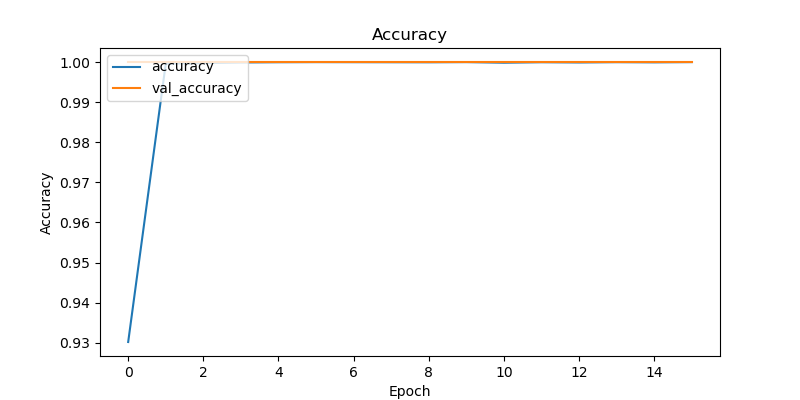
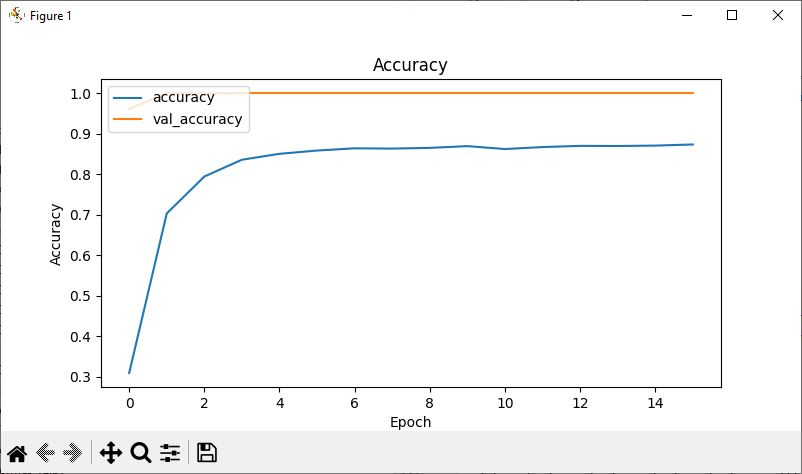
formes.py> améliore les transformations des data en utilisant les random transformation layers

diff --git a/MasterMind/formes.py b/MasterMind/formes.py
@@ -50,7 +50,7 @@ class Figures(object):
         self.forms = ["Rond", "Square", "Triangle", "Star5",
                       "Star4", "Eclair", "Coeur", "Lune",
                       "Hexagone", "Pentagone", "Logo", "D"]
-        self.line_width = 1
+        self.line_width = 2
 
     def run(self):
         self.top.mainloop()
@@ -572,48 +572,49 @@ def change_perpective(image):
     return img_finale
 
 
-def rotation_model():
+def transformation_model(height, width):
+    """
+    Crop(height, width)
+    Flip
+    Translation(height_factor, width_factor)
+    Rotation
+    Zoom(height_factor)
+    Height(factor)
+    Width(factor)
+    Contrast(factor)
+    """
+    scale = 0.5
     return tf.keras.Sequential([
-        keras.layers.RandomRotation(0.2),
+        keras.layers.RandomZoom((0.0, 0.7), fill_mode="nearest"),
+        keras.layers.RandomRotation(0.5),
+        keras.layers.RandomTranslation(0.5, 0.5, fill_mode="nearest"),
+        # keras.layers.RandomCrop(int(height*scale), int(width*scale)),
+        # keras.layers.RandomContrast(0.5),
     ])
 
 
-def change_rotation(image):
-    # print("change_rotation> ", type(image), image.shape)
+def transformation(image):
+    # print("transformation> ", type(image), image.shape)
 
     height, width = image.shape[:2]
 
-    mode = "cv"
     mode = "tf"
 
-    if mode == "cv":
-        center = (width/2, height/2)
+    transformed_image = transformation_model(height, width)
 
-        # print("change_rotation> ", height, width, center)
+    data = np.zeros([height, width, 3], np.float32)
+    data[:, :, 0] = image[:, :]
+    data[:, :, 1] = image[:, :]
+    data[:, :, 2] = image[:, :]
 
-        rotate_matrix = cv.getRotationMatrix2D(center=center, angle=randrange(360), scale=1.)
-        img_finale = cv.warpAffine(src=image, M=rotate_matrix, dsize=(width, height))
+    img = transformed_image(data).numpy()
+    # print(img.shape, type(img))
 
-        print("change_rotation> ", img_finale.shape, type(img_finale))
-    else:
-        transform = rotation_model()
+    img_finale = np.zeros([img.shape[0], img.shape[1]])
+    for j in range(3):
+        img_finale[:, :] += img[:, :, j]
 
-        data = np.zeros([height, width, 3], np.float32)
-        data[:, :, 0] = image[:, :]
-        data[:, :, 1] = image[:, :]
-        data[:, :, 2] = image[:, :]
-
-        img = transform(data).numpy()
-        # print(img.shape, type(img))
-
-        # cv.imshow("F", img)
-        # cv.waitKey()
-
-        img_finale = np.zeros([img.shape[0], img.shape[1]])
-        for j in range(3):
-            img_finale[:, :] += img[:, :, j]
-
-        img_finale /= 3
+    img_finale /= 3
 
     return img_finale
 
@@ -632,52 +633,37 @@ def build_data(data_size, images):
 
     # print("build_data> ", images)
     shape = images[0].shape
-    image_size = len(images)
+    image_number = len(images)
     frac = 0.85
     first = True
-    k = 0
-    for i in range(data_size):
-        for n, raw_img in enumerate(images):
-            if k % 1000 == 0: print("generate data k = ", k)
-            k += 1
+    data_id = 0
 
+    for i in range(data_size):
+        for image_id, raw_img in enumerate(images):
+            if data_id % 1000 == 0: print("generate data> data_id = ", data_id)
             # print(raw_img.shape)
 
-            data1 = change_rotation(raw_img)
-            # data2 = change_perpective(data1)
-            data2 = data1
-
-            """
-            data2 = np.ones_like(data1) * 255.
-            data2[:, :, 0] = vf(data1[:, :, 0])
-            data2[:, :, 1] = vf(data1[:, :, 1])
-            data2[:, :, 2] = vf(data1[:, :, 2])
-            """
+            # Change rotation
+            data = transformation(raw_img)
 
             """
             # visualisation de l'image finale
-            cv.imshow("output image", data2)
+            print("forme", image_id, "data_id=", data_id)
+            cv.imshow("input image", raw_img)
+            cv.imshow("output image", data)
             cv.waitKey(0)
             """
 
-            """
-            # transformation de l'image finale en une matrice de points N&B
-            data = np.zeros([data2.shape[0], data2.shape[1]])
-            for j in range(3):
-                data[:, :] += data2[:, :, j]
-
-            data /= 3
-            """
-
             if first:
-                shape = data2.shape
-                x_data = np.zeros([data_size * image_size, shape[0], shape[1], 1])
-                y_data = np.zeros([data_size * image_size])
+                shape = data.shape
+                x_data = np.zeros([data_size * image_number, shape[0], shape[1], 1])
+                y_data = np.zeros([data_size * image_number])
                 first = False
 
-            p = i*image_size + n
-            x_data[p, :, :, 0] = data2[:, :]
-            y_data[p] = n
+            x_data[data_id, :, :, 0] = data[:, :]
+            y_data[data_id] = image_id
+
+            data_id += 1
 
             # print("build_data> p={} x_data={}".format(p, x_data[p, :, :, 0]))
             # print("build_data> p={} y_data={}".format(p, y_data[p]))
@@ -685,9 +671,16 @@ def build_data(data_size, images):
 
     # x_data = x_data.reshape(-1, shape[0], shape[1], 1)
 
-    index = int(frac*data_size*image_size)
+    data_number = data_id
 
-    print("build_data> x_data.shape=", x_data.shape, "index=", index, "generated data=", k)
+    p = np.random.permutation(len(x_data))
+
+    x_data = x_data[p]
+    y_data = y_data[p]
+
+    index = int(frac*data_size*image_number)
+
+    print("build_data> x_data.shape=", x_data.shape, "index=", index, "generated data=", data_number)
 
     # print("----------------------------------------------------------------------------------------------")
     # print("build_data> x_data={}".format(x_data[:, :, :, :]))
@@ -890,7 +883,7 @@ zoom = 40
 build_figures = False
 
 if build_figures:
-    figures.prepare_source_images(zoom=zoom, form_number=form_number)
+    # figures.prepare_source_images(zoom=zoom, form_number=form_number)
     figures.prepare_source_images(zoom=zoom, form_number=form_number, rebuild_forme=2)
     exit()
 
@@ -910,32 +903,42 @@ model, x_train, y_train, x_test, y_test = run(figures,
 # figures.run()
 
 # pwk.plot_images(x_train, y_train, [27], x_size=5, y_size=5, colorbar=True, save_as='01-one-digit')
-pwk.plot_images(x_train, y_train, range(0,64), columns=8, save_as='02-many-digits')
+# pwk.plot_images(x_train, y_train, range(0,64), columns=8, save_as='02-many-digits')
 
 print(">>>>>>>>>>>>>>>>>>>>>>>>>>>>>>>>>> Predictions")
 
-test_number = 10
-x_test = x_test[0:test_number+1, :, :, :]
-y_test = y_test[0:test_number+1]
+"""
+test_number = 1
+for i in range(10):
+    n = randint(0, 6000)
+    A = x_test[n:n+1, :, :, :]
+    B = y_test[n:n+1]
 
-now = datetime.datetime.now()
-y_sigmoid = model.predict(x_test, verbose=2)
-y_pred    = np.argmax(y_sigmoid, axis=-1)
-t = datetime.datetime.now() - now
+    now = datetime.datetime.now()
+    # y_sigmoid = model.predict(A, verbose=0)
+    result = model(A)
+    y_pred = np.argmax(result, axis=-1)
+    t = datetime.datetime.now() - now
+    errors = [i for i in range(len(A)) if y_pred[i] != B[i]]
+    # print("errors", errors)
+    print("n=", n, "A", A.shape, B, "pred=", y_pred[0], "durée=", t)
 
-print("durée=", t)
 
-# print(y_pred)
+exit()
+"""
 
-# pwk.plot_images(x_test, y_test, range(0,200), columns=8, x_size=1, y_size=1, y_pred=y_pred, save_as='04-predictions')
 
 print("len(x_test)=", len(x_test))
+result = model(x_test)
+y_pred = np.argmax(result, axis=-1)
+pwk.plot_images(x_test, y_test, range(0,200), columns=8, x_size=1, y_size=1, y_pred=y_pred, save_as='04-predictions')
 errors=[i for i in range(len(x_test)) if y_pred[i] != y_test[i] ]
-errors=errors[:min(24,len(errors))]
+# print("errors", errors)
+# errors=errors[:min(24,len(errors))]
 # pwk.plot_images(x_test, y_test, errors[:15], columns=8, x_size=2, y_size=2, y_pred=y_pred, save_as='05-some-errors')
 
 pwk.plot_confusion_matrix(y_test, y_pred, range(8), normalize=True, save_as='06-confusion-matrix')
-pwk.end()
+#pwk.end()
 
 exit()
 

diff --git a/MasterMind/véhicule.py b/MasterMind/véhicule.py
@@ -4,6 +4,10 @@ from random import *
 import random as rng
 import math
 
+import tensorflow as tf
+from tensorflow import keras
+
+
 # les couleurs de base
 R = (0, 0, 255)
 G = (0, 255, 0)
@@ -521,7 +525,6 @@ def find_figures(src):
         # extraction de ce rectangle
 
         extract = np.zeros((y2 - y1, x2 - x1, 3), np.uint8)
-        print(src.shape, "Y", y1, y2, y2-y1, "X", x1, x2, x2-x1, "extract", extract.shape)
 
         extract[:, :, :] = camera.hidden[y1:y2, x1:x2, :]
 
@@ -532,12 +535,27 @@ def find_figures(src):
 
         crop(extract, 0, (0, 0), extract)
 
+        resized = cv.resize(extract, (63, 63), interpolation=cv.INTER_LINEAR)
+
+        print(src.shape, "Y", y1, y2, y2-y1, "X", x1, x2, x2-x1, "extract", extract.shape, "resized", resized.shape)
+
         try:
             cv.destroyWindow("----extract----")
         except:
             pass
-        cv.imshow("----extract----", extract)
-        # cv.waitKey()
+        cv.imshow("----extract----", resized)
+
+        data = np.zeros([1, 63, 63, 1])
+        for j in range(3):
+            data[0, :, :, 0] += resized[:, :, j]
+
+        data /= 3
+
+        data /= 255.
+
+        pred = model(data)
+        prediction = np.argmax(pred, axis=-1)
+        print("data", data.shape, "pred=", prediction[0])
 
         # cv.circle(img=src, center=(int(xc), int(yc)), radius=2, color=color, lineType=cv.FILLED)
 
@@ -551,6 +569,9 @@ forms = ["Rond", "Square", "Triangle", "Star5", "Star4", "Eclair", "Coeur", "Lun
 table = Table()
 camera = Camera()
 help = Help()
+
+save_dir = "./run/models/best_model.h5"
+model = keras.models.load_model(save_dir)
 
 # initialisation des formes brutes
 images = []
